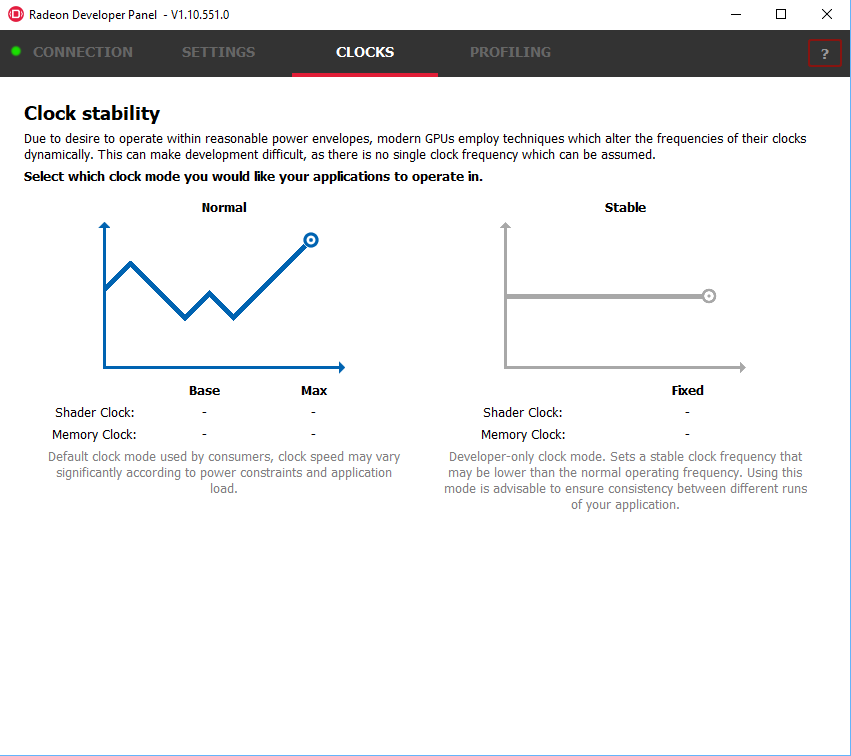
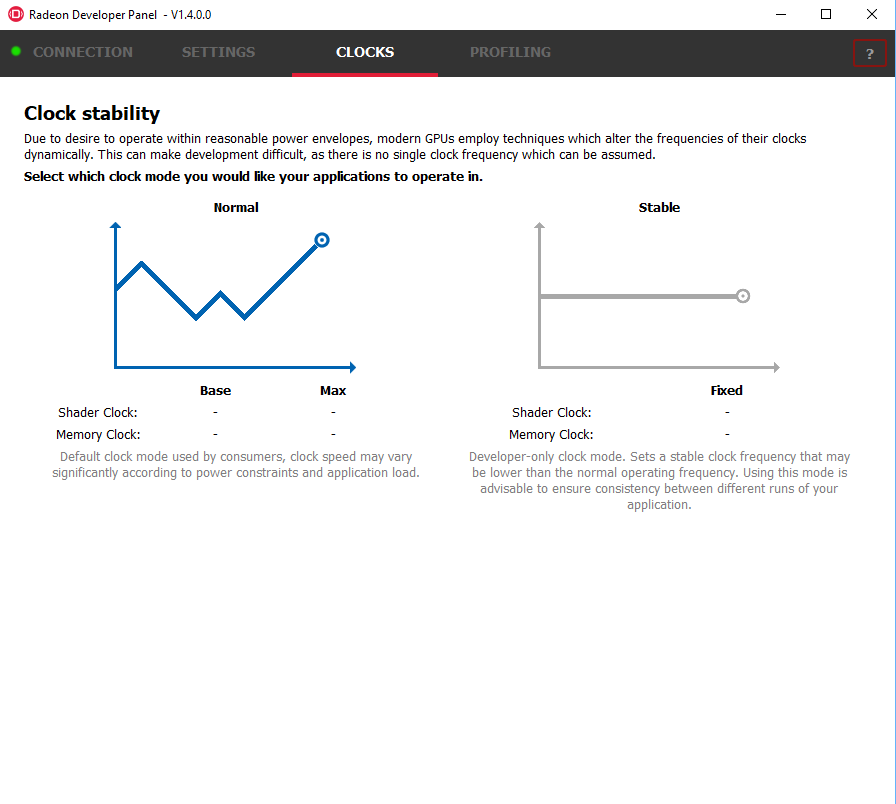
Update documentation to V1.4

diff --git a/docs/source/conf.py b/docs/source/conf.py
@@ -54,9 +54,9 @@ author = u'AMD Developer Tools'
 # built documents.
 #
 # The short X.Y version.
-version = u'1.3.0'
+version = u'1.4.0'
 # The full version, including alpha/beta/rc tags.
-release = u'1.3.0'
+release = u'1.4.0'
 
 # The language for content autogenerated by Sphinx. Refer to documentation
 # for a list of supported languages.

diff --git a/docs/source/index.rst b/docs/source/index.rst
@@ -19,7 +19,7 @@ graphics hardware. The suite is comprised of the following software:
 
 -  **Radeon Developer Panel (RDP)** – A GUI application that allows the
    developer to configure driver settings and generate profiles from
-   DirectX12 and Vulkan applications.
+   DirectX12, Vulkan and OpenCL applications.
 
 -  **Radeon GPU Profiler (RGP)** – A GUI tool used to visualize and
    analyze the profile data.
@@ -33,6 +33,8 @@ Getting started on Windows
 ==========================
 -  To collect complete profiles for DirectX 12, run the script 'AddUserToGroup.bat'
    in the scripts folder. See :ref:`DX12-timing-ref` for more information
+-  You may want to blacklist certain applications so they don't show up in the
+   UI. For details, see :ref:`Blacklisting-ref`
 
 Getting started on Linux
 ========================
@@ -113,7 +115,12 @@ green to indicate that the connection was successful.
    a. Use the “…” button to browse to the executable, or manually type
       it in the executable name textbox.
 
-   b. Select an active process within the Active Applications table, and
+   b. Use the executable name textbox to enter a wildcard '*' which is used
+      as a catch-all for any target application launched. Note that Checkbox
+      options in a row which has a wildcard for the filename take precedence
+      over any other rows that may contain an exact filename match.
+
+   c. Select an active process within the Active Applications table, and
       click the “Add to targets” button. The process will need to be
       restarted in order to apply settings at application startup, and
       to enable collection of RGP profiles.
@@ -168,8 +175,113 @@ to the Profiling tab.
    in the list and **click the “Open profile” button** or **double-click
    the selected row**.
 
-.. _Linux-keyboard-ref:   
-   
+Profiling modes
+---------------
+
+.. only:: public
+
+  In addition to clicking on the **Capture profile** button or by using the
+  capture profile hotkey, a **Dispatch range** can be specified for OpenCL
+  applications. To configure the panel to capture an OpenCL Dispatch range,
+  go back to the **Connection** tab and click on the **Edit** button next
+  to the Enable profiling checkbox for the row matching the target application
+  filename. A dialog box will then open:
+
+.. only:: internal
+
+  In addition to clicking on the **Capture profile** button or by using the
+  capture profile hotkey for Windows, profiles can be captured in other ways
+  depending on the API. To configure the panel to capture profiles in other
+  modes go back to the **Connection** tab and click on the **Edit** button
+  next to the Enable profiling checkbox for the row matching the target
+  application filename.  A dialog box will then open:
+
+.. image:: media/Capture_1.png
+  :width: 4.0in
+  :height: 2.1in
+
+The API combobox is used to select which profiling option(s) are displayed
+for a supported API.  Profile settings can be configured for each API type.
+The dialog box will show the default profile options for the target
+application and API selected. The **Auto detect** API only supports the
+**Trigger mechanism** at this time. This Profile mode is the the manual method
+of profiling described using the capture button or hotkey in the previous
+sections.
+
+.. only:: internal
+
+  Graphics APIs allow for the default **Trigger mechanism** as well as the
+  ability to profile a certain frame. The frame number starts counting from
+  the time the target application was started. When selecting **Frame capture**,
+  an edit box will be shown to specify the frame number to profile.
+
+  .. image:: media/Capture_2.png
+    :width: 4.0in
+    :height: 2.1in
+
+  .. image:: media/Capture_3.png
+    :width: 4.0in
+    :height: 2.1in
+
+Select **OpenCL** for the *API* and choose **Dispatch range** for the **Profile mode**.
+Selecting this will display start and end Dispatch edit boxes. For example, the
+values 5 and 20 could be entered and the profile would consist of 15 Dispatches
+starting with the 5th Dispatch. The 20th dispatch is not included in the trace.
+
+The number of dispatches captured is limited to 50 at present to prevent the
+amount of captured data becoming too large.
+
+.. image:: media/Capture_4.png
+  :width: 4.0in
+  :height: 2.1in
+
+Once the profile mode has been selected for the target application, click the
+**OK** button to close the dlaiog. Start the target application in the normal way.
+
+.. only:: public
+
+  If **Dispatch range** has been specified, the profile will be carried out
+  automatically according to the parameters specified. Therefore, on the
+  **Profiler** tab, the **Capture profile** button will be grayed out. Once
+  the profile has been taken, it will be added to the **Recently collected
+  profiles** list.
+
+.. only:: internal
+
+  If **Frame capture** or **Dispatch range** have been specified, the
+  profile will be carried out automatically according to the parameters
+  specified. Therefore, on the **Profiler** tab, the **Capture profile** button
+  will be grayed out. Once the profile has been taken, it will be added to the
+  **Recently collected profiles** list.
+
+.. only:: public
+
+  RDP will detect the API type of a running target application and automatically
+  apply the appropriate profile options.  If for example, an **OpenCL** application
+  is started, the profile options entered in the Profile configuration dialog box
+  for the **OpenCL** API will be applied. If a graphics application is started,
+  the **Trigger mechanism** profile mode will be applied.
+
+.. only:: internal
+
+  RDP will detect the API type of a running target application and automatically
+  apply the appropriate profile options.  If for example, an **OpenCL** application
+  is started, the profile options entered in the Profile configuration dialog box
+  for the **OpenCL** API will be applied. If a graphics application is started,
+  the options for either Vulkan or DirectX will be applied, depending on the target
+  application's API.
+
+Be aware that a row in the target applications table with a wildcard will take
+precedence over an exactly matching filename.  The profile configuration options
+for the wildcard row will be applied in this case.
+
+**Note:** Only recent drivers support these new profile modes. If the driver
+doesn't support a particular profile mode, a warning message will be displayed
+and profiling for that run of the application will be disabled. The default
+**Trigger mechanism** profile mode should always work.
+
+.. _Linux-keyboard-ref:
+
 Capturing using the keyboard on Linux
 -------------------------------------
 Some applications capture focus or run fullscreen which makes capturing
@@ -279,6 +391,24 @@ the settings do not effect a currently running application.**
 4) Profile your application as described in the “\ **How to profile your
    application**\ ” section above.
 
+.. _Blacklisting-ref:
+
+Blacklisting applications
+=========================
+Sometimes it is useful to completely exclude certain background applications
+from being recognized and displayed in the Radeon Developer Panel. For example,
+Windows 10 has applications that use DirectX 12 and when they are started can
+show up in the list of target applications. When first running the panel, a
+default list of blacklisted applications is generated and written to
+**ProcessBlacklist.txt** in the folder:
+**C:\\Users\\<user_name>\\AppData\\Roaming\\RadeonDeveloperDriver**. This file can be
+updated to include other applications that are to be ignored. If the file is
+removed or isn't present, a file containing a default list of blacklisted
+applications will be added. A current list of blacklisted applications can be
+found from the open source DevDriverTools on github
+(https://github.com/GPUOpen-Tools/DevDriverTools) near the top of the file:
+source\RDP\Settings\RDPSettings.cpp
+
 Using the Clock settings
 ========================
 
@@ -376,8 +506,6 @@ RadeonDeveloperServiceCLI:
 1) **-- port <port number>** *Overrides the default listener port used
    by the service (27300 is the default).*
 
-2) **-- enableUWP** *Enables UWP support (disabled by default).*
-
 **Please note** that the service will need to be explicitly started
 before starting the Radeon Developer Panel. If the service isn’t
 running, the Radeon Developer Panel will automatically start the UI
@@ -454,7 +582,7 @@ a. Alternatively, disable the Windows Firewall entirely will also allow
    with the Radeon Developer Service, which may or may not be on the same
    machine, and a connection needs to be made between the two (normally via a
    socket).
- 
+
 Disabling Linux Firewall
 ------------------------
 
@@ -486,13 +614,13 @@ your machine; the file permissions do not survive system reboots.
 Running the Panel with elevated privileges
 ------------------------------------------
 
-As previously mentioned, the panel only needs to be run with elevated privileges
-if the keyboard shortcut is needed for capturing. On Ubuntu 18.04, a dialog box
-may pop up indicating that the RadeonDeveloperService is running in headless mode.
-This is nothing to worry about and will not affect profiling in any way; it just
-means that the root shell doesn't have access to the user interface so is running
-without one. The only downside is that there won't be a 'service' icon in the
-system tray.
+As previously mentioned, the panel only needs to be run with elevated
+privileges if the keyboard shortcut is needed for capturing. On Ubuntu 18.04,
+a dialog box may pop up indicating that the RadeonDeveloperService is running
+in headless mode. This is nothing to worry about and will not affect profiling
+in any way; it just means that the root shell doesn't have access to the system
+tray so is running without a user interface. The only downside is that there
+won't be a 'service' icon available on the desktop.
 
 Radeon Developer Panel connection issues on Linux
 -------------------------------------------------
